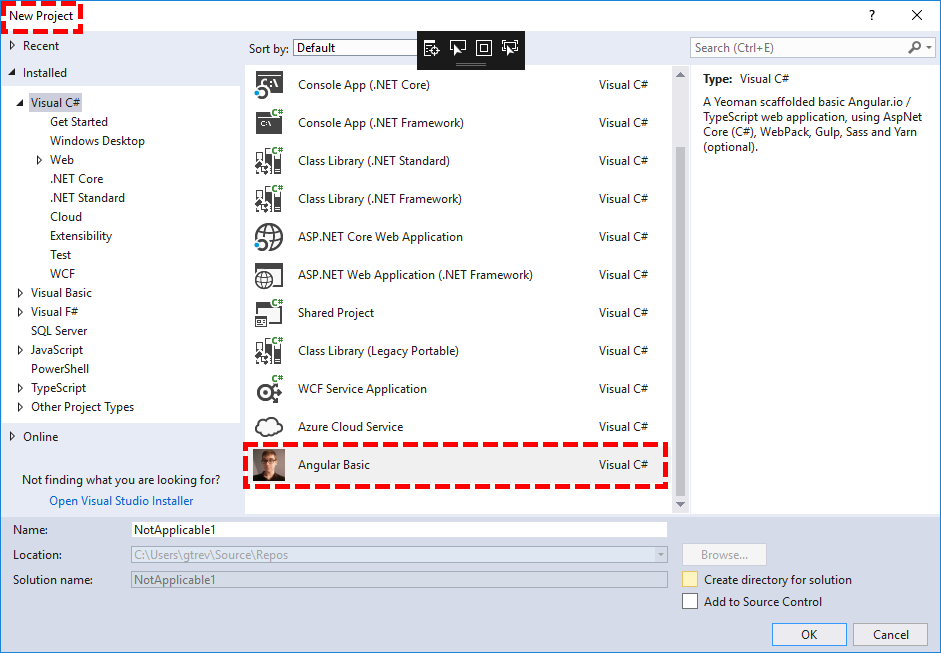
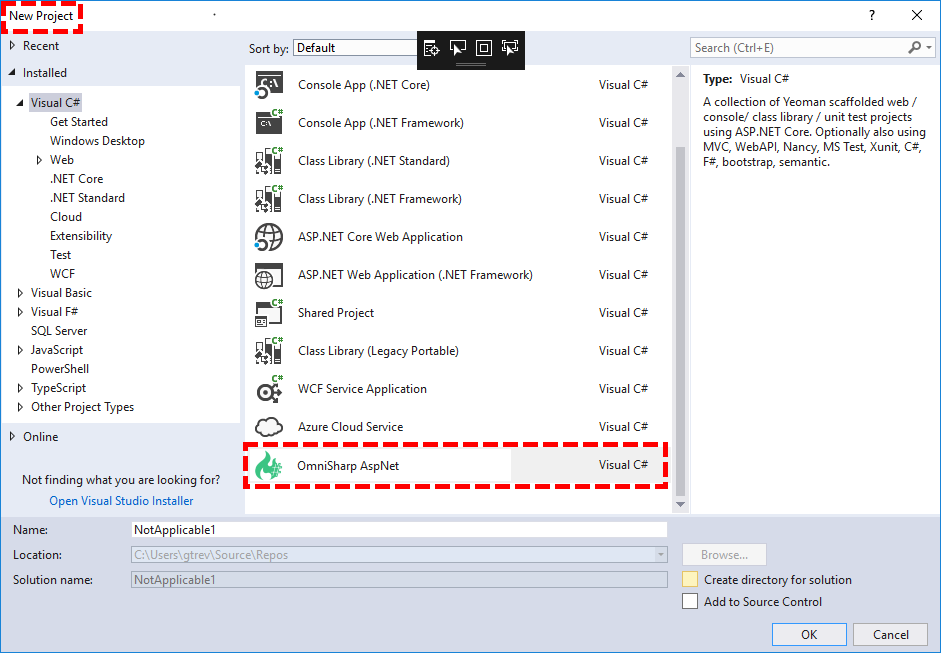
.

Changed region(s): [[0.7396, 0.1531, 0.9862, 0.2757], [0.2465, 0.6738, 0.4315, 0.7351]]

diff --git a/Src/OmniSharpAspNetVsix/VsixArtefacts/VsmpReadMe.md b/Src/OmniSharpAspNetVsix/VsixArtefacts/VsmpReadMe.md
@@ -10,26 +10,20 @@ When you create a new project...
 
 ![](screen0.png)
 
-...a dialog appears informing you what will happen and prompting your confirmation...
+...a dialog appears explaining what will happen...
 
 ![](screen1.png)
 
-...when you click 'OK' a command prompt is opened to scaffold the new project using Yeoman...
- 
- - Node will install the angular-basic Yeoman generator via command `npm install -g yo aspnet`
- - Yeoman will prompt you for personalisation and custom options for the new project (red border) via command `yo aspnet`
- - Within seconds Yeoman will create the new project on your hard drive (purple border)
- - Yeoman will automatically download any necessary dependancies (e.g. into `node_modules` folder)
+...a command prompt is opened to scaffold the new project using Yeoman...
+
+ - Node will install the [AspNet Yeoman generator](https://github.com/omnisharp/generator-aspnet) via command `npm install -g yo aspnet`
+ - Yeoman will prompt you for personalisation and custom options for the new project via command `yo aspnet`
+ - Yeoman will create the new project on your machine
+ - Yeoman will automatically download any dependancies (e.g. into `node_modules` folder)
 
 ![](screen2.gif)
 
-...the new project will be opened in a new instance of Visual Studio, and here's what you get...
-
-![](screen3.png)
-
-...and upon build/run ('F5' in Visual Studio) this is the resultant website application...
-
-![](screen4.png)
+...the new project will be opened in a new instance of Visual Studio.
 
 > Note: A Visual Studio solution file (`.Sln`) is not created when the project is scaffolded. However when you close Visual Studio you will be prompted to create and save a solution file.
 

diff --git a/Src/AngularBasicVsix/VsixArtefacts/VsmpReadMe.md b/Src/AngularBasicVsix/VsixArtefacts/VsmpReadMe.md
@@ -10,16 +10,16 @@ When you create a new project...
 
 ![](screen0.png)
 
-...a dialog appears informing you what will happen and prompting your confirmation...
+...a dialog appears explaining what will happen...
 
 ![](screen1.png)
 
-...when you click 'OK' a command prompt is opened to scaffold the new project using Yeoman...
+...a command prompt is opened to scaffold the new project using Yeoman...
  
- - Node will install the angular-basic Yeoman generator via command `npm install -g yo angular-basic`
+ - Node will install the [Angular Basic Yeoman generator](https://github.com/MattJeanes/AngularBasic) via command `npm install -g yo angular-basic`
  - Yeoman will prompt you for personalisation and custom options for the new project (red border) via command `yo angular-basic`
- - Within seconds Yeoman will create the new project on your hard drive (purple border)
- - Yeoman will automatically download any necessary dependancies (e.g. into `node_modules` folder)
+ - Yeoman will create the new project on your machine (purple border)
+ - Yeoman will automatically download any dependancies (e.g. into `node_modules` folder)
 
 ![](screen2.png)
 
